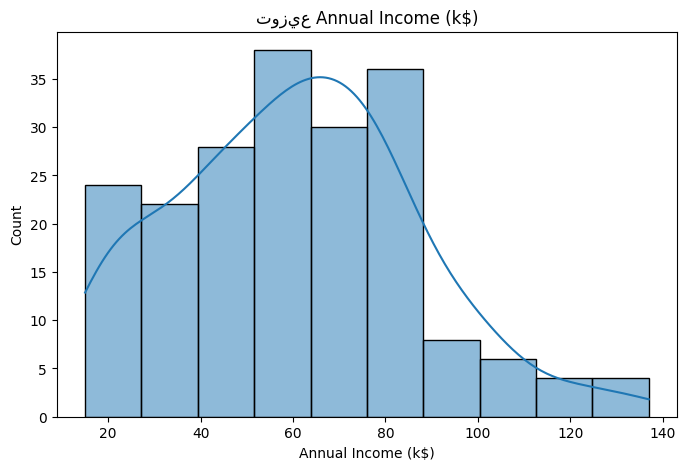
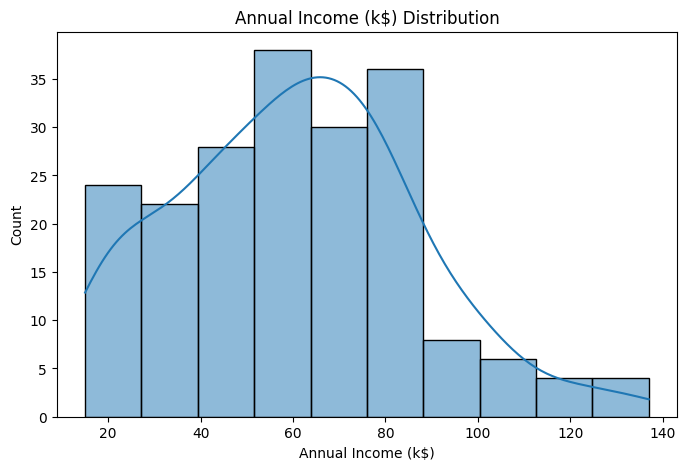
Update Visualization

Changed region(s): [[0.3367, 0.0, 0.7347, 0.0596]]

diff --git a/src/visualization/eda_plots.py b/src/visualization/eda_plots.py
@@ -26,7 +26,7 @@ def plot_distributions(df: pd.DataFrame, columns: list, save: bool = True) -> No
     for col in columns:
         plt.figure(figsize=(8, 5))
         sns.histplot(df[col], kde=True)
-        plt.title(f"توزيع {col}")
+        plt.title(f"{col} Distribution")
         if save:
             safe_name = col.replace(" ", "_").replace("(", "").replace(")", "").replace("$", "")
             plt.savefig(os.path.join(FIGURES_DIR, f"dist_{safe_name}.png"), bbox_inches="tight")
@@ -44,7 +44,7 @@ def plot_income_vs_spending(df: pd.DataFrame, save: bool = True) -> None:
     """
     plt.figure(figsize=(8, 6))
     sns.scatterplot(data=df, x="Annual Income (k$)", y="Spending Score (1-100)")
-    plt.title("الدخل السنوي مقابل درجة الإنفاق")
+    plt.title("Annual Income (k$) VS Spending Score (1-100)")
 
     if save:
         os.makedirs(FIGURES_DIR, exist_ok=True)